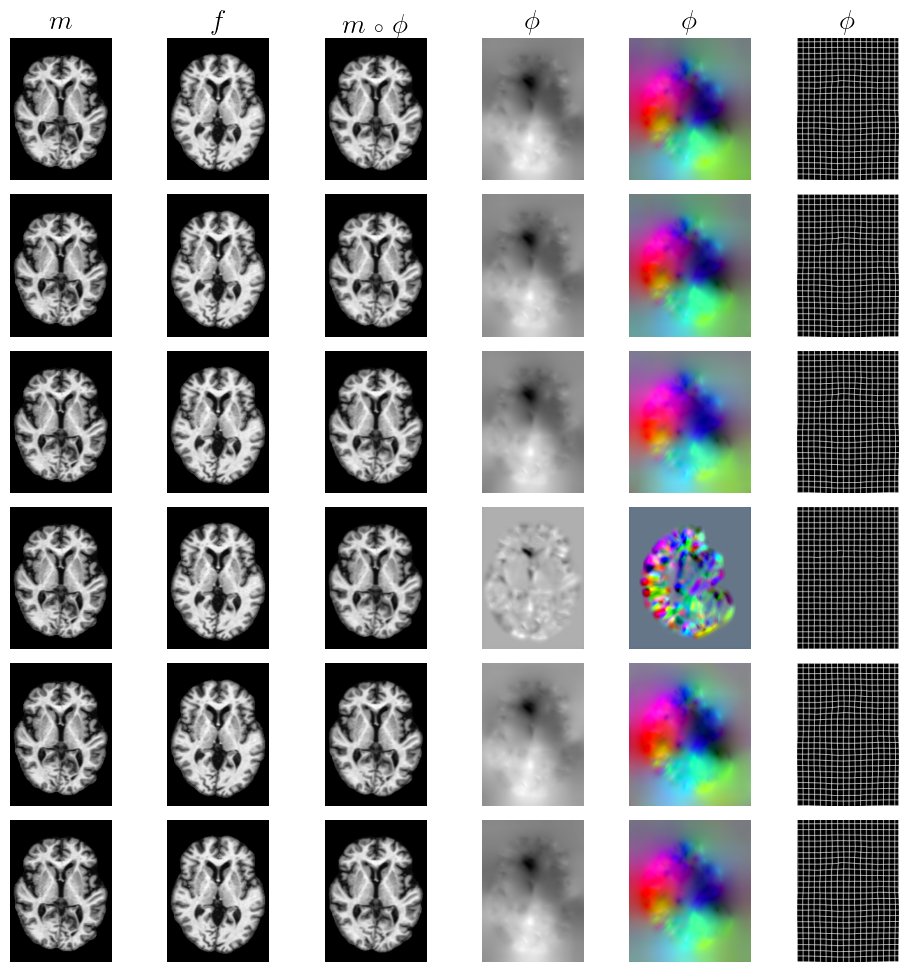
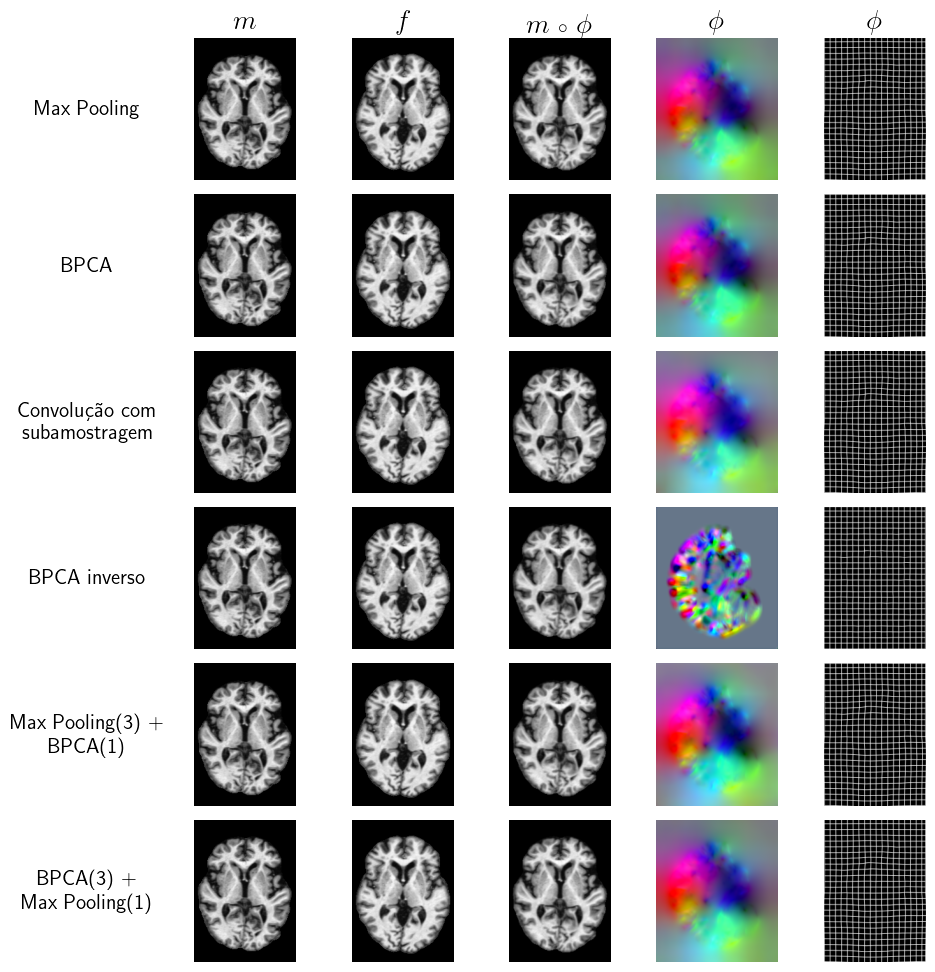
chore: add OASIS files

diff --git a/OASIS/compute_results.py b/OASIS/compute_results.py
@@ -64,7 +64,7 @@ def main():
             # 3
             # if index_data == 15:
             if index_data == 0:
-                grid_index = 2
+                grid_index = 1
                 # x, y, x_seg, y_seg = utils.pkload(data)
 
                 # x, y = x[None, None, ...], y[None, None, ...]
@@ -84,6 +84,7 @@ def main():
                 grid = grid[None, None, ...]
 
                 results = []
+                results2 = []
                 for index, model in enumerate(models):
                     print(f'Results of: {names[index]}')
                     print(models_dir[index])
@@ -150,8 +151,13 @@ def main():
                     # grid_fig.savefig(
                     #     f'results-{names[index]}.png', bbox_inches='tight')
 
+                    # results.append([slices_moving[grid_index], slices_fixed[grid_index],
+                    #                 slices_pred[grid_index], slices_flow[grid_index], flow_rgb, slices_grid[grid_index]])
                     results.append([slices_moving[grid_index], slices_fixed[grid_index],
-                                    slices_pred[grid_index], slices_flow[grid_index], flow_rgb, slices_grid[grid_index]])
+                                    slices_pred[grid_index], flow_rgb, slices_grid[grid_index]])
+                    results2.append(
+                        [slices_moving[grid_index], slices_fixed[grid_index], slices_pred[grid_index]])
+
                     del x_def, flow, def_grid
                     # flow_rgb = flow_as_rgb(slices_flow[2])
                     # flow_rgb = flow_as_rgb(flow)
@@ -169,6 +175,11 @@ def main():
                 name_results = f"oasis_results_slice_{index_data}_{name_axis}.png"
                 mult_results = comput_mult_figs(results)
                 mult_results.savefig(name_results, bbox_inches='tight')
+
+                name_results = f"oasis_results2_slice_{index_data}_{name_axis}.png"
+                mult_results = comput_mult_figs2(results2, grid_index)
+                mult_results.savefig(name_results, bbox_inches='tight')
+
                 can_break = True
 
             if can_break:
@@ -185,6 +196,14 @@ def comput_mult_fig(imgs):
 
 
 def comput_mult_figs(imgs):
+    names = [
+        "Max Pooling",
+        "BPCA",
+        "Convolução com\nsubamostragem",
+        "BPCA inverso",
+        "Max Pooling(3) +\nBPCA(1)",
+        "BPCA(3) +\nMax Pooling(1)",
+    ]
     plt.rcParams['text.usetex'] = True
 
     fig, axs = plt.subplots(6, 6, figsize=(12, 12))
@@ -192,19 +211,72 @@ def comput_mult_figs(imgs):
     for i in range(6):
         for j in range(6):
             if i == 0:
-                if j == 0:
+                if j == 1:
                     axs[i, j].set_title('$m$', fontsize=20, pad=7)
-                elif j == 1:
-                    axs[i, j].set_title('$f$', fontsize=20, pad=7)
                 elif j == 2:
+                    axs[i, j].set_title('$f$', fontsize=20, pad=7)
+                elif j == 3:
                     axs[i, j].set_title(
                         r'$m \ {\scriptstyle \circ} \ \phi $', fontsize=20, pad=7, ha='center', va='center')
-                else:
+                elif j > 3:
                     axs[i, j].set_title('$\phi$', fontsize=20, pad=7)
 
-            # axs[i, j].imshow(imgs[i][j], cmap='gray', aspect="auto")
-            axs[i, j].imshow(imgs[i][j], cmap='gray')
-            axs[i, j].axis('off')
+            if j == 0:
+                axs[i, j].text(0.5, 0.5, names[i],
+                               fontsize=15, ha='center', va='center')
+                axs[i, j].axis('off')
+            else:
+                # axs[i, j].imshow(imgs[i][j], cmap='gray', aspect="auto")
+                axs[i, j].imshow(imgs[i][j-1], cmap='gray')
+                axs[i, j].axis('off')
+
+    fig.subplots_adjust(wspace=0.1, hspace=0.1)
+    return fig
+
+
+def comput_mult_figs2(imgs, grid_index):
+    names = [
+        "Max Pooling",
+        "BPCA",
+        "Convolução com\nsubamostragem",
+        "BPCA inverso",
+        "Max Pooling(3) +\nBPCA(1)",
+        "BPCA(3) +\nMax Pooling(1)",
+    ]
+    plt.rcParams['text.usetex'] = True
+
+    fig, axs = plt.subplots(6, 4)
+    # plt.rcParams['mathtext.fontset'] = 'cm'
+    for i in range(6):
+        for j in range(4):
+            if i == 0:
+                if j == 1:
+                    axs[i, j].set_title('$m$', fontsize=20, pad=7)
+                elif j == 2:
+                    axs[i, j].set_title('$f$', fontsize=20, pad=7)
+                elif j == 3:
+                    axs[i, j].set_title(
+                        r'$m \ {\scriptstyle \circ} \ \phi $', fontsize=20, pad=7, ha='center', va='center')
+
+            if j == 0:
+                axs[i, j].text(0.5, 0.5, names[i],
+                               fontsize=20, ha='center', va='center')
+                axs[i, j].axis('off')
+            else:
+                axs[i, j].imshow(imgs[i][j-1], cmap='gray', aspect="auto")
+                # axs[i, j].imshow(imgs[i][j-1], cmap='gray')
+
+                if grid_index == 0:
+                    axs[i, j].get_figure().set_figheight(12)
+                    axs[i, j].get_figure().set_figwidth(14)
+                elif grid_index == 1:
+                    axs[i, j].get_figure().set_figheight(22)
+                    axs[i, j].get_figure().set_figwidth(10)
+                elif grid_index == 2:
+                    axs[i, j].get_figure().set_figheight(24)
+                    axs[i, j].get_figure().set_figwidth(14)
+
+                axs[i, j].axis('off')
 
     fig.subplots_adjust(wspace=0.1, hspace=0.1)
     return fig

diff --git a/OASIS/compute_time_taken.py b/OASIS/compute_time_taken.py
@@ -26,5 +26,6 @@ minutes = int((total_seconds % 3600) // 60)
 remaining_seconds = total_seconds % 60
 
 # Print the result
+print(f"total seconds: {total_seconds}")
 print(
     f'Total time: {days} days, {hours} hours, {minutes} minutes, and {remaining_seconds:.6f} seconds.')
